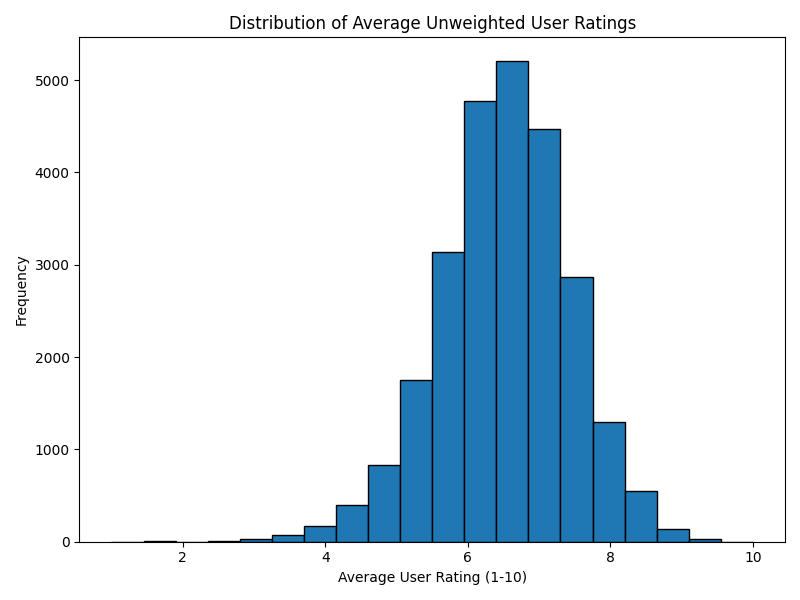
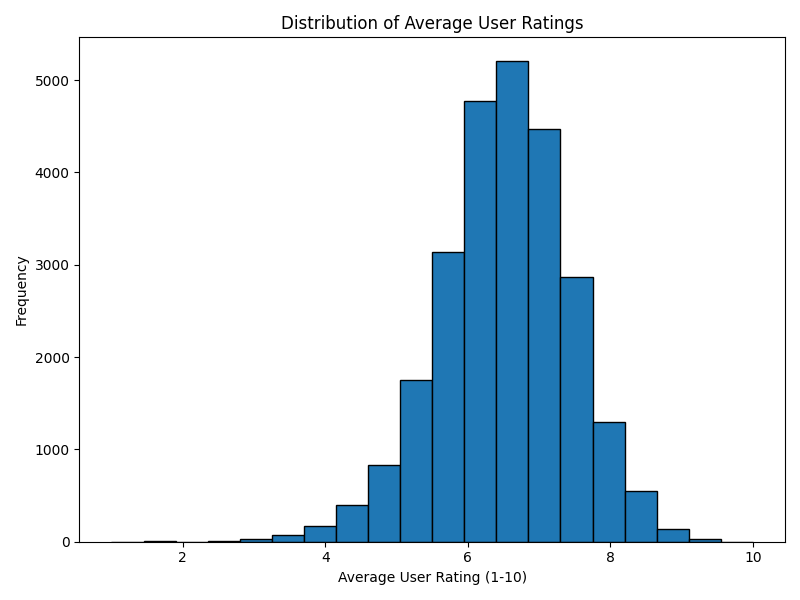
Updating visuals

Changed region(s): [[0.2812, 0.03, 0.8125, 0.06]]

diff --git a/visualizations/generate_viz.py b/visualizations/generate_viz.py
@@ -1,0 +1,146 @@
+import pandas as pd
+import matplotlib.pyplot as plt
+import logging
+import re
+
+GAMEDATA_FILE = "/Users/loriramey/PycharmProjects/BGPlayNext/data/raw/gamedata.csv"
+# Load master data and cosine similarity matrix
+df = pd.read_csv(GAMEDATA_FILE)
+
+# --- Descriptive Statistics & Basic Reports ---
+def print_basic_stats(df, cols_to_print=None):
+    """
+    Print basic descriptive statistics about the dataset.
+
+    Parameters:
+        data (DataFrame): The full dataset.
+        cols_to_print (list, optional): List of column names to include in the descriptive summary.
+                                         If None, the summary for all columns is printed.
+    """
+    print("\n--- Basic Statistics ---")
+    print(f"Total games in dataset: {len(df)}")
+
+    # Check for expected columns and print their stats if available.
+    if 'bayesaverage' in df.columns:
+        print(f"Average rating [Bayes] (1-10): {df['bayesaverage'].mean():.2f}")
+    if 'averageweight' in df.columns:
+        print(f"Average complexity weight (1-5): {df['averageweight'].mean():.2f}")
+
+    # Print descriptive summary for specified columns (or all columns if not specified)
+    if cols_to_print is not None:
+        summary = df[cols_to_print].describe(include='all')
+    else:
+        summary = df.describe(include='all')
+
+    print("\nDescriptive Summary:")
+    print(summary)
+
+
+# --- Static Visualizations using Matplotlib ----
+def plot_bayes_rating_distribution(df, output_file="avg_user_rating_distribution.png"):
+    """
+    Generates a histogram of the bayesaverage column and saves it as an image file.
+
+    Parameters:
+        df (pandas.DataFrame):  game data containing a 'bayesaverage' column.
+        output_file (str): Filename to save the plot image (PNG by default).
+    """
+    # Ensure bayesaverage is numeric, drop rows where it's NaN
+    df['bayesaverage'] = pd.to_numeric(df['bayesaverage'], errors='coerce')
+    df_clean = df.dropna(subset=['bayesaverage'])
+
+    plt.figure(figsize=(8, 6))
+    plt.hist(df_clean['bayesaverage'], bins=20, edgecolor='black', range=(1, 10))
+    plt.title("Distribution of Bayesian Average User Ratings")
+    plt.xlabel("Bayesian Rating (scale 1-10)")
+    plt.ylabel("Frequency")
+    plt.tight_layout()
+
+    plt.savefig(output_file)
+    plt.close()
+    print(f"Histogram saved to {output_file}")
+
+
+def plot_average_rating_distribution(df, output_file="avg_user_rating_distribution.png"):
+    """
+    Generates a histogram of the unweighted average column and saves it as an image file.
+
+    Parameters:
+        df (pandas.DataFrame):  game data containing a 'average' column.
+        output_file (str): Filename to save the plot image (PNG by default).
+    """
+    # Ensure bayesaverage is numeric, drop rows where it's NaN
+    df['average'] = pd.to_numeric(df['average'], errors='coerce')
+    df_clean = df.dropna(subset=['average'])
+
+    plt.figure(figsize=(8, 6))
+    plt.hist(df_clean['average'], bins=20, edgecolor='black', range=(1, 10))
+    plt.title("Distribution of Average User Ratings")
+    plt.xlabel("Average User Rating (1-10)")
+    plt.ylabel("Frequency")
+    plt.tight_layout()
+
+    plt.savefig(output_file)
+    plt.close()
+    print(f"Histogram saved to {output_file}")
+
+
+def plot_games_per_year(df):
+    """
+    Generate and save visualizations of the number of games published per year and the average Bayesian rating per year,
+    filtering the data to only include games from 1970 until now.
+    (Note: Negative values representing BC years are automatically excluded.)
+    """
+    if 'yearpublished' not in df.columns:
+        print("Column 'yearpublished' not found in data.")
+        return
+
+    # Clean the 'yearpublished' column to ensure it's numeric
+    df['yearpublished'] = pd.to_numeric(df['yearpublished'], errors='coerce')
+
+    # Filter the data for games from 1970 onward (this will exclude negative values)
+    filtered_data = df[df['yearpublished'] >= 1970].copy()
+
+    # Count games per year and sort by year
+    year_counts = filtered_data['yearpublished'].value_counts().sort_index()
+
+    # Plot and save the games-per-year bar chart
+    plt.figure(figsize=(10, 6))
+    plt.bar(year_counts.index, year_counts.values)
+    plt.title("Games Published per Year (1970-Present)")
+    plt.xlabel("Year Published")
+    plt.ylabel("Number of Games")
+    plt.tight_layout()
+    plt.savefig("games_per_year.png")
+    plt.close()
+    print("Games per year plot saved as games_per_year.png.")
+
+    # Use the Bayesian average for computing yearly averages
+    if 'bayesaverage' in filtered_data.columns:
+        # Calculate average Bayesian rating per year
+        avg_rating_per_year = filtered_data.groupby('yearpublished')['bayesaverage'].mean().reset_index()
+        avg_rating_per_year.rename(columns={'bayesaverage': 'average_bayesaverage'}, inplace=True)
+
+        # Save the average Bayesian rating data as a CSV
+        avg_rating_per_year.to_csv("average_bayesaverage_per_year.csv", index=False)
+        print("Average Bayesian rating per year exported to average_bayesaverage_per_year.csv.")
+
+        # Plot and save the average Bayesian rating per year line chart
+        plt.figure(figsize=(10, 6))
+        plt.plot(avg_rating_per_year['yearpublished'], avg_rating_per_year['average_bayesaverage'], marker='o')
+        plt.title("Average Bayesian Game Rating per Year (1970-Present)")
+        plt.xlabel("Year Published")
+        plt.ylabel("Average Bayesian Rating")
+        plt.tight_layout()
+        plt.savefig("average_bayesaverage_per_year.png")
+        plt.close()
+        print("Average Bayesian rating per year plot saved as average_bayesaverage_per_year.png.")
+    else:
+        print("Column 'bayesaverage' not found in data; skipping average rating computation.")
+
+
+if __name__ == "__main__":
+    # Load your game data; adjust the path as needed
+    df = pd.read_csv("/Users/loriramey/PycharmProjects/BGPlayNext/data/raw/gamedata.csv")
+    plot_bayes_rating_distribution(df)
+    plot_average_rating_distribution(df)
